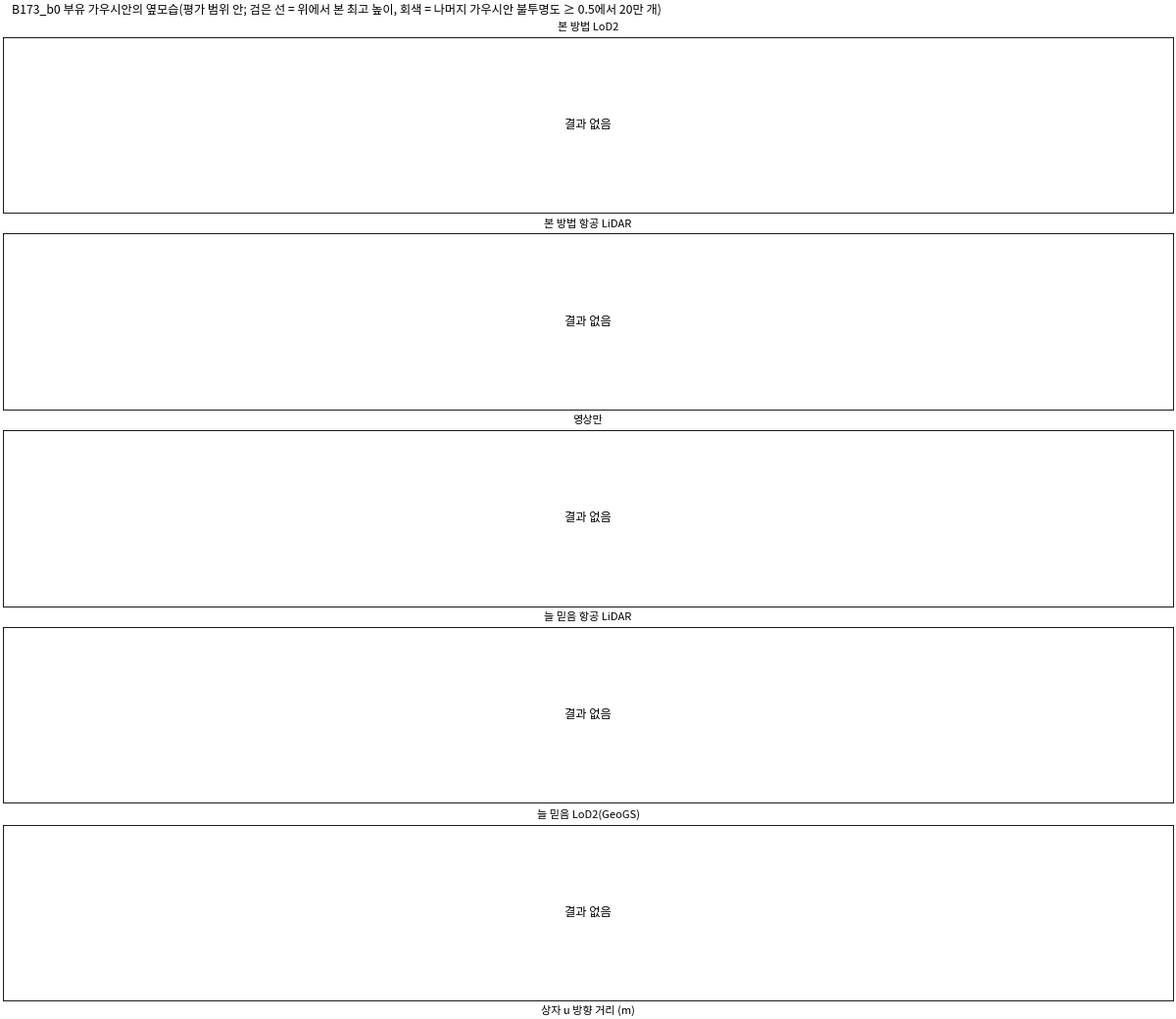
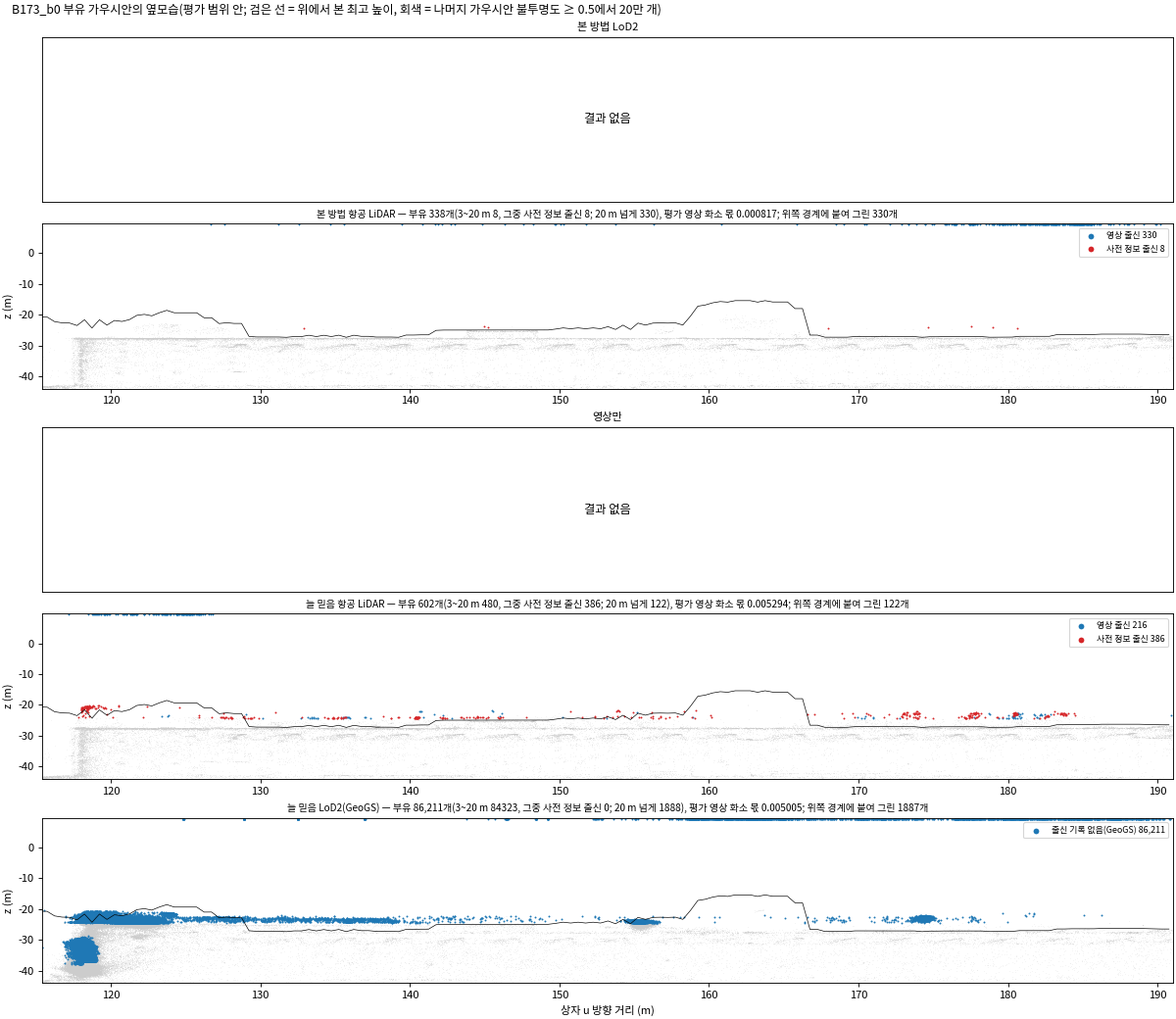
PHD-MAIN-STAGE1-v1 (지역: B173만): 학습 넷 PASS, 결과 없음 둘(GPU 메모리), 최종 관문표
- B173_b0(사용자 결정 10-08: 최대한 남김): 여섯 번 모두 영상을 CPU에(--data_device cpu, 계산 같음), 본 방법 LoD2는 GPU 1에서만,
  두 번째 메모리 부족은 '결과 없음'으로 적고 계속(run_stage1_v2.py --cpu-images/--gpu1/--keep-going)
- PASS: 본 방법 LoD2 씨앗 1, 항공 LiDAR 씨앗 0·1, 늘 믿음 항공 LiDAR / 결과 없음: 본 방법 LoD2 씨앗 0(네 번 실패, 필요 약 24.3~24.4 GB),
  영상만(두 번 실패)
- 최종 관문표 gate_final(조건 1·2·4 일곱 칸, 조건 3 세 칸): 통과, 미충족 없음
- 지역 합산 표 final_extra 다시 냄; 부유 그림이 GeoGS(덤프 없음)를 PLY에서 읽게; B0 전체 그림에 항공 LiDAR 1배

scientific_verdict: null

diff --git a/scripts/phd/main_stage1_v1/run_stage1_v2.py b/scripts/phd/main_stage1_v1/run_stage1_v2.py
@@ -13,8 +13,12 @@ then stopped its queue as designed):
     run that ends out of memory is trained once more here, any other failure stops
   - pending first: runs with a PASS receipt whose post / run / metrics outputs are missing
   - progress.md end line: '학습 대기열 v2 끝'
+  - options added 2026-10-08 for B173_b0 (decided by the user after its two out-of-memory stops; the training computation is unchanged):
+    --cpu-images <site>: the training images of that site stay in host memory ('--data_device cpu' appended to the command; ~1.3 GB of
+    GPU memory freed), --gpu1 <site>/<result>: those runs only on GPU 1 (no resident desktop process there), --keep-going <site>: a
+    second out-of-memory of that site is recorded as 'no result' and the queue goes on instead of stopping
 
-  python3 run_stage1_v2.py [--sites <site> ...] [--only <site>/<result> ...]
+  python3 run_stage1_v2.py [--sites <site> ...] [--only <site>/<result> ...] [--cpu-images <site> ...] [--gpu1 <site>/<result> ...] [--keep-going <site> ...]
 scientific_verdict: null."""
 import argparse
 import fcntl
@@ -33,6 +37,18 @@ OUT, HERE = rs.OUT, rs.HERE
 PENDING, ADOPT, POSTQ = [], [], []
 LK = threading.Lock()
 DONE = threading.Event()
+OPT = dict(cpu_images=set(), gpu1=set(), keep_going=set())
+NO_RESULT = []
+_command = rs.command
+
+
+def command_v2(run, gpu):
+    """rs.command with '--data_device cpu' for the sites of --cpu-images (rs.train looks rs.command up at call time)."""
+    name, cmd = _command(run, gpu)
+    return name, (cmd + ["--data_device", "cpu"] if run["site"] in OPT["cpu_images"] else cmd)
+
+
+rs.command = command_v2
 
 
 def units_of(run):
@@ -125,8 +141,13 @@ def post_worker():
             rs.write_progress(f"{site}/{res} 후처리·지표 끝")
 
 
-def next_job(queue):
-    """('post', run) for pending post steps (adopted runs whose receipt came), ('train', run), ('wait', None) or (None, None)."""
+def allowed(run, g):
+    return g == 1 or f"{run['site']}/{run['result']}" not in OPT["gpu1"]
+
+
+def next_job(queue, g=None):
+    """('post', run) for pending post steps (adopted runs whose receipt came), ('train', run), ('wait', None) or (None, None).
+    A training restricted to GPU 1 (--gpu1) is skipped by the GPU 0 worker; when only such trainings are left that worker ends."""
     with LK:
         for run in list(ADOPT):
             rec = receipt(run)
@@ -144,18 +165,19 @@ def next_job(queue):
                 return None, None
         if PENDING:
             return "post", PENDING.pop(0)
-        if queue:
-            return "train", queue.pop(0)
+        for i, run in enumerate(queue):
+            if g is None or allowed(run, g):
+                return "train", queue.pop(i)
         if ADOPT:
             return "wait", None
-    return None, None
+    return None, None          # nothing this GPU may take (only GPU-1 trainings left for the GPU 0 worker): the worker ends
 
 
 def gpu_worker(g, queue):
     while not rs.STOP.is_set():
         if not wait_idle(g, "다음 일 전"):          # a job is taken only by a worker whose GPU is idle (the first idle GPU gets it)
             return
-        kind, run = next_job(queue)
+        kind, run = next_job(queue, g)
         if kind is None:
             return
         if kind == "wait":
@@ -168,6 +190,10 @@ def gpu_worker(g, queue):
                 rs.write_progress(f"{run['site']}/{run['result']} GPU 메모리 부족 — 같은 학습을 한 번 더 돌림")
                 st = rs.train(run, g, 1)
             rs.RUNNING[g] = None
+            if st == "OOM" and run["site"] in OPT["keep_going"]:
+                NO_RESULT.append(f"{run['site']}/{run['result']}")
+                rs.write_progress(f"{run['site']}/{run['result']} 두 번째 GPU 메모리 부족 — 결과 없음으로 적고 다음 학습으로(사용자 결정 10-08)")
+                continue
             if st != "PASS":
                 rs.write_progress(f"{run['site']}/{run['result']} 실행 조건이 깨짐({st}) — 멈추고 여쭙는다")
                 stop(run=f"{run['site']}/{run['result']}", reason=st)
@@ -185,7 +211,11 @@ def main():
     ap = argparse.ArgumentParser()
     ap.add_argument("--sites", nargs="+", default=None)
     ap.add_argument("--only", nargs="+", default=None)
+    ap.add_argument("--cpu-images", nargs="+", default=[])
+    ap.add_argument("--gpu1", nargs="+", default=[])
+    ap.add_argument("--keep-going", nargs="+", default=[])
     a = ap.parse_args()
+    OPT.update(cpu_images=set(a.cpu_images), gpu1=set(a.gpu1), keep_going=set(a.keep_going))
     running = set(subprocess.run(["docker", "ps", "--format", "{{.Names}}"], capture_output=True, text=True).stdout.split())
     queue = []
     for r in rs.PLAN["runs"]:
@@ -215,7 +245,7 @@ def main():
         w.join()
     DONE.set()
     pw.join()
-    rs.write_progress("학습 대기열 v2 끝" + (" (멈춤: logs/STOP_v2.json)" if rs.STOP.is_set() else ""))
+    rs.write_progress("학습 대기열 v2 끝" + (" (멈춤: logs/STOP_v2.json)" if rs.STOP.is_set() else "") + (f" (결과 없음: {', '.join(NO_RESULT)})" if NO_RESULT else ""))
 
 
 if __name__ == "__main__":

diff --git a/scripts/phd/main_stage1_v1/figs_s1.py b/scripts/phd/main_stage1_v1/figs_s1.py
@@ -477,17 +477,26 @@ def floating_fig(site):
     for i, (res, lab) in enumerate(ms):
         ax = axs[i, 0]
         p = result_paths(site, res)
-        if not (p.get("floater_mask") and Path(p["floater_mask"]).exists() and p.get("dump") is not None and Path(p["dump"]).exists()):
+        has_dump = p.get("dump") is not None and Path(p["dump"]).exists()
+        has_ply = p.get("ply") is not None and Path(p["ply"]).exists()
+        if not (p.get("floater_mask") and Path(p["floater_mask"]).exists() and (has_dump or has_ply)):
             blank(ax)
             ax.set_title(lab, fontsize=10)
             continue
         fm = np.load(p["floater_mask"])
-        dm = np.load(p["dump"])
-        X = dm["xyz"].astype(np.float64)
-        og = dm["origin"] if "origin" in dm.files else np.zeros(len(X), np.int8)
+        if has_dump:
+            dm = np.load(p["dump"])
+            X, opac = dm["xyz"].astype(np.float64), dm["opacity"]
+            og = dm["origin"] if "origin" in dm.files else np.zeros(len(X), np.int8)
+        else:                       # GeoGS: positions and opacities from the PLY, origin not recorded (drawn as image-origin colour)
+            from plyfile import PlyData
+            v = PlyData.read(str(p["ply"]))["vertex"]
+            X = np.stack([v["x"], v["y"], v["z"]], 1).astype(np.float64)
+            opac = 1.0 / (1.0 + np.exp(-np.asarray(v["opacity"], np.float64)))
+            og = np.zeros(len(X), np.int8)
         uvx = xy_to_uv(X[:, :2])
         ine = in_eval(uvx, b)
-        bg = np.nonzero(ine & (dm["opacity"] >= 0.5) & ~fm)[0]
+        bg = np.nonzero(ine & (opac >= 0.5) & ~fm)[0]
         bg = rng.choice(bg, min(len(bg), 200_000), replace=False) if len(bg) else bg
         ax.scatter(uvx[bg, 0], X[bg, 2], s=0.1, c="0.8", linewidths=0, rasterized=True)
         ax.plot(ubu * 0.5 + 0.25, zmax, "k-", lw=0.6)
@@ -496,7 +505,10 @@ def floating_fig(site):
         for code in (0, 1):
             mk = fm & (og == code)
             above += int((mk & (X[:, 2] > ylim[1])).sum())
-            ax.scatter(uvx[mk, 0], np.minimum(X[mk, 2], ylim[1] - 0.3), s=3, c=[ORG_COL[code]], linewidths=0, label=f"{ORG_KO[code]} {int(mk.sum()):,}")
+            if not has_dump and code == 1:
+                continue
+            ax.scatter(uvx[mk, 0], np.minimum(X[mk, 2], ylim[1] - 0.3), s=3, c=[ORG_COL[code]], linewidths=0,
+                       label=f"{ORG_KO[code] if has_dump else '출신 기록 없음(GeoGS)'} {int(mk.sum()):,}")
         fl = metric_json(site, res).get("floating", {})
         ax.set_title(f"{lab} — 부유 {int(fm.sum()):,}개(3~20 m {fl.get('near_3_20m', '—')}, 그중 사전 정보 출신 {fl.get('near_prior', '—')}; 20 m 넘게 "
                      f"{fl.get('above_20m', '—')}), 평가 영상 화소 몫 {fl.get('pixel_share_all', '—')}" + (f"; 위쪽 경계에 붙여 그린 {above}개" if above else ""), fontsize=9)

diff --git a/docs/experiments/phd/main_stage1_v1/tables/results_B173_b0.md b/docs/experiments/phd/main_stage1_v1/tables/results_B173_b0.md
@@ -1,58 +1,71 @@
 
 **B173_b0 · LoD2** (참고: 지면 MVS − 참값 +8.4 cm, 같은 건물들의 완만한 지붕 MVS − 참값 -0.8 cm)
 
-| 묶음 | 지표 | 늘 믿음(GeoGS) | 그대로(같은 길) | 그대로(표면) |
-|---|---|---|---|---|
-| 오류 차단 | 유입률 · 사전 정보 오류 [조건 1] | 19.5 | 99.7 | 100.0 |
-| 오류 차단 | 판별 불가 · 사전 정보 오류 | 2.1 | 2.1 | 2.1 |
-| 오류 차단 | 유입률 · 관측 오류 문턱 이내 [조건 2] | 35.3 | 45.6 | 45.3 |
-| 오류 차단 | 판별 불가 · 관측 오류 문턱 이내 | 32.9 | 32.9 | 32.9 |
-| 오류 차단 | 유입률 · 관측 오류 문턱 이내, 의심 뺌 | 34.8 | 47.5 | 47.3 |
-| 오류 차단 | 유입률 · 관측 오류 전체 | 17.5 | 6.7 | 4.6 |
-| 오류 차단 | 유입률 · 전제 위배 안 | 16.1 | 3.7 | 1.5 |
-| 오류 차단 | 유입률 · 이중 오류(기록) | 29.0 | 98.9 | 99.6 |
-| 오류 차단 | 유입률 · 결측 사전 정보 오류(기록) | 44.8 | 94.3 | 98.6 |
-| 기하 | 완만한 지붕 편향 / NMAD [조건 3 = NMAD] | +6.7 / 9.9 | +10.3 / 1.6 | +10.3 / 1.7 |
-| 기하 | 완만한 지붕 편향, 의심 뺌 | +6.0 | +10.2 | +10.2 |
-| 기하 | 완만한 지붕 산포 q68.3 / q95 | 13.4 / 662.0 | 1.6 / 3.1 | 1.6 / 3.1 |
-| 기하 | 가파른 지붕 편향 / NMAD | +3.8 / 11.6 | -7.3 / 7.4 | -7.3 / 7.4 |
-| 기하 | 가파른 지붕 산포 q68.3 / q95 | 12.8 / 40.9 | 7.3 / 15.3 | 7.3 / 15.4 |
-| 기하 | 띠 편향 / NMAD | +9.6 / 14.5 | +1.5 / 11.4 | +1.5 / 11.3 |
-| 기하 | 벽 편향 / NMAD | +6.3 / 10.0 | -2.2 / 2.4 | -2.1 / 2.1 |
-| 완전성 | 결측 일치 0.2 / 0.5 m | 88.4 / 96.1 | 97.9 / 99.9 | 97.6 / 99.9 |
-| 완전성 | 비가시 일치 0.2 / 0.5 m | 47.1 / 100.0 | 100.0 / 100.0 | 100.0 / 100.0 |
-| 완전성 | 전제 위배 둘레 0.2 m [조건 4] | 84.4 | 98.4 | 98.2 |
-| 완전성 | 가상 시점 메시: 맞음 미룸 0.5 m / 틀림 미룸 0.2 m | 36.9 / 23.2 | — | — |
-| 부유 | 3~20 m / 그중 사전 정보 출신 / 20 m 넘게 (개) | 84,323 / 0 / 1,888 | — | — |
-| 부유 | 평가 영상 화소 몫 (‰) | 5.00 | — | — |
-| 요약 | Chamfer 평균 (m) | 0.926 | 1.420 | 1.512 |
-| 요약 | 정밀도 / 완전성 / F1 @0.2 m | 27.2 / 34.0 / 30.2 | 37.3 / 27.3 / 31.5 | 31.8 / 27.7 / 29.6 |
-| 요약 | M3C2 중앙값 / NMAD (cm) | +11.5 / 33.0 | -1.2 / 19.0 | -1.1 / 19.4 |
-| 요약 | 학습 시간 (분) / GPU 최대 (GB) | 139 / 16.4 | — | — |
-| 요약 | 화질 PSNR / SSIM / LPIPS | 22.19 / 0.695 / 0.368 | — | — |
+| 묶음 | 지표 | 본 방법 1 | 늘 믿음(GeoGS) | 그대로(같은 길) | 그대로(표면) |
+|---|---|---|---|---|---|
+| 오류 차단 | 유입률 · 사전 정보 오류 [조건 1] | 5.1 | 19.5 | 99.7 | 100.0 |
+| 오류 차단 | 판별 불가 · 사전 정보 오류 | 2.1 | 2.1 | 2.1 | 2.1 |
+| 오류 차단 | 유입률 · 관측 오류 문턱 이내 [조건 2] | 68.0 | 35.3 | 45.6 | 45.3 |
+| 오류 차단 | 판별 불가 · 관측 오류 문턱 이내 | 32.9 | 32.9 | 32.9 | 32.9 |
+| 오류 차단 | 유입률 · 관측 오류 문턱 이내, 의심 뺌 | 68.5 | 34.8 | 47.5 | 47.3 |
+| 오류 차단 | 유입률 · 관측 오류 전체 | 46.4 | 17.5 | 6.7 | 4.6 |
+| 오류 차단 | 유입률 · 전제 위배 안 | 44.7 | 16.1 | 3.7 | 1.5 |
+| 오류 차단 | 유입률 · 이중 오류(기록) | 33.0 | 29.0 | 98.9 | 99.6 |
+| 오류 차단 | 유입률 · 결측 사전 정보 오류(기록) | 10.5 | 44.8 | 94.3 | 98.6 |
+| 오류 차단 | 과거 형상 · 사전 정보 오류 | 1.0 | — | — | — |
+| 오류 차단 | 과거 형상 · 관측 오류(출신 무관) | 10.8 | — | — | — |
+| 오류 차단 | 보정 경계 (τ / m) | 1 / 0.18 | — | — | — |
+| 기하 | 완만한 지붕 편향 / NMAD [조건 3 = NMAD] | +2.7 / 5.8 | +6.7 / 9.9 | +10.3 / 1.6 | +10.3 / 1.7 |
+| 기하 | 완만한 지붕 편향, 의심 뺌 | +2.3 | +6.0 | +10.2 | +10.2 |
+| 기하 | 완만한 지붕 산포 q68.3 / q95 | 5.3 / 217.2 | 13.4 / 662.0 | 1.6 / 3.1 | 1.6 / 3.1 |
+| 기하 | 가파른 지붕 편향 / NMAD | -8.5 / 6.5 | +3.8 / 11.6 | -7.3 / 7.4 | -7.3 / 7.4 |
+| 기하 | 가파른 지붕 산포 q68.3 / q95 | 6.6 / 13.2 | 12.8 / 40.9 | 7.3 / 15.3 | 7.3 / 15.4 |
+| 기하 | 띠 편향 / NMAD | +0.2 / 6.6 | +9.6 / 14.5 | +1.5 / 11.4 | +1.5 / 11.3 |
+| 기하 | 벽 편향 / NMAD | -4.4 / 4.4 | +6.3 / 10.0 | -2.2 / 2.4 | -2.1 / 2.1 |
+| 완전성 | 결측 일치 0.2 / 0.5 m | 93.2 / 95.1 | 88.4 / 96.1 | 97.9 / 99.9 | 97.6 / 99.9 |
+| 완전성 | 비가시 일치 0.2 / 0.5 m | 76.5 / 100.0 | 47.1 / 100.0 | 100.0 / 100.0 | 100.0 / 100.0 |
+| 완전성 | 전제 위배 둘레 0.2 m [조건 4] | 95.0 | 84.4 | 98.4 | 98.2 |
+| 완전성 | 못 본 곳 상속률 / 과거 형상 (가우시안) | 84.5 / 5.0 | — | — | — |
+| 완전성 | 가상 시점 메시: 맞음 미룸 0.5 m / 틀림 미룸 0.2 m | 98.6 / 13.0 | 36.9 / 23.2 | — | — |
+| 부유 | 3~20 m / 그중 사전 정보 출신 / 20 m 넘게 (개) | 53 / 53 / 1,356 | 84,323 / 0 / 1,888 | — | — |
+| 부유 | 평가 영상 화소 몫 (‰) | 1.09 | 5.00 | — | — |
+| 요약 | Chamfer 평균 (m) | 0.199 | 0.926 | 1.420 | 1.512 |
+| 요약 | 정밀도 / 완전성 / F1 @0.2 m | 68.4 / 84.2 / 75.4 | 27.2 / 34.0 / 30.2 | 37.3 / 27.3 / 31.5 | 31.8 / 27.7 / 29.6 |
+| 요약 | M3C2 중앙값 / NMAD (cm) | -2.1 / 13.9 | +11.5 / 33.0 | -1.2 / 19.0 | -1.1 / 19.4 |
+| 요약 | 학습 시간 (분) / GPU 최대 (GB) | 65 / 13.2 | 139 / 16.4 | — | — |
+| 요약 | 화질 PSNR / SSIM / LPIPS | 22.87 / 0.747 / 0.305 | 22.19 / 0.695 / 0.368 | — | — |
 
 **B173_b0 · ALS** (참고: 지면 MVS − 참값 +8.4 cm, 같은 건물들의 완만한 지붕 MVS − 참값 -4.8 cm)
 
-| 묶음 | 지표 | 그대로(같은 길) | 그대로(표면) |
-|---|---|---|---|
-| 오류 차단 | 유입률 · 사전 정보 오류 [조건 1] | 100.0 | 100.0 |
-| 오류 차단 | 판별 불가 · 사전 정보 오류 | 0.1 | 0.1 |
-| 오류 차단 | 유입률 · 관측 오류 문턱 이내 [조건 2] | 4.7 | 4.1 |
-| 오류 차단 | 판별 불가 · 관측 오류 문턱 이내 | 54.3 | 54.3 |
-| 오류 차단 | 유입률 · 관측 오류 문턱 이내, 의심 뺌 | 5.0 | 4.3 |
-| 오류 차단 | 유입률 · 관측 오류 전체 | 1.7 | 1.3 |
-| 오류 차단 | 유입률 · 전제 위배 안 | 0.4 | 0.2 |
-| 오류 차단 | 유입률 · 이중 오류(기록) | 100.0 | 100.0 |
-| 오류 차단 | 유입률 · 결측 사전 정보 오류(기록) | 100.0 | 100.0 |
-| 기하 | 완만한 지붕 편향 / NMAD [조건 3 = NMAD] | -0.3 / 2.0 | -0.3 / 2.0 |
-| 기하 | 완만한 지붕 편향, 의심 뺌 | -0.4 | -0.4 |
-| 기하 | 완만한 지붕 산포 q68.3 / q95 | 2.1 / 4.5 | 2.0 / 4.3 |
-| 기하 | 가파른 지붕 편향 / NMAD | -1.1 / 2.2 | -1.1 / 2.1 |
-| 기하 | 가파른 지붕 산포 q68.3 / q95 | 2.2 / 6.2 | 2.1 / 5.6 |
-| 기하 | 띠 편향 / NMAD | -1.0 / 2.5 | -0.6 / 2.1 |
-| 완전성 | 결측 일치 0.2 / 0.5 m | 100.0 / 100.0 | 100.0 / 100.0 |
-| 완전성 | 비가시 일치 0.2 / 0.5 m | 100.0 / 100.0 | 100.0 / 100.0 |
-| 완전성 | 전제 위배 둘레 0.2 m [조건 4] | 99.8 | 99.9 |
-| 요약 | Chamfer 평균 (m) | 1.897 | 1.875 |
-| 요약 | 정밀도 / 완전성 / F1 @0.2 m | 17.9 / 23.1 / 20.1 | 12.2 / 25.7 / 16.5 |
-| 요약 | M3C2 중앙값 / NMAD (cm) | +5.1 / 33.6 | +10.7 / 36.3 |
+| 묶음 | 지표 | 본 방법 0 | 본 방법 1 | 늘 믿음 | 그대로(같은 길) | 그대로(표면) |
+|---|---|---|---|---|---|---|
+| 오류 차단 | 유입률 · 사전 정보 오류 [조건 1] | 0.0 | 0.1 | 23.2 | 100.0 | 100.0 |
+| 오류 차단 | 판별 불가 · 사전 정보 오류 | 0.1 | 0.1 | 0.1 | 0.1 | 0.1 |
+| 오류 차단 | 유입률 · 관측 오류 문턱 이내 [조건 2] | 87.5 | 87.5 | 48.8 | 4.7 | 4.1 |
+| 오류 차단 | 판별 불가 · 관측 오류 문턱 이내 | 54.3 | 54.3 | 54.3 | 54.3 | 54.3 |
+| 오류 차단 | 유입률 · 관측 오류 문턱 이내, 의심 뺌 | 88.0 | 87.8 | 48.0 | 5.0 | 4.3 |
+| 오류 차단 | 유입률 · 관측 오류 전체 | 85.1 | 85.2 | 36.8 | 1.7 | 1.3 |
+| 오류 차단 | 유입률 · 전제 위배 안 | 84.2 | 84.2 | 32.0 | 0.4 | 0.2 |
+| 오류 차단 | 유입률 · 이중 오류(기록) | 0.7 | 0.7 | 15.8 | 100.0 | 100.0 |
+| 오류 차단 | 유입률 · 결측 사전 정보 오류(기록) | 0.0 | 0.0 | 50.0 | 100.0 | 100.0 |
+| 오류 차단 | 과거 형상 · 사전 정보 오류 | 0.1 | 0.2 | 1.4 | — | — |
+| 오류 차단 | 과거 형상 · 관측 오류(출신 무관) | 27.9 | 30.7 | 17.7 | — | — |
+| 오류 차단 | 보정 경계 (τ / m) | 1 / 0.15 | 1 / 0.15 | — | — | — |
+| 기하 | 완만한 지붕 편향 / NMAD [조건 3 = NMAD] | -4.6 / 10.3 | -4.4 / 10.0 | +0.2 / 5.3 | -0.3 / 2.0 | -0.3 / 2.0 |
+| 기하 | 완만한 지붕 편향, 의심 뺌 | -5.2 | -4.9 | +0.1 | -0.4 | -0.4 |
+| 기하 | 완만한 지붕 산포 q68.3 / q95 | 9.6 / 225.7 | 9.2 / 175.9 | 5.5 / 525.9 | 2.1 / 4.5 | 2.0 / 4.3 |
+| 기하 | 가파른 지붕 편향 / NMAD | -9.8 / 6.3 | -9.5 / 6.5 | -2.9 / 5.4 | -1.1 / 2.2 | -1.1 / 2.1 |
+| 기하 | 가파른 지붕 산포 q68.3 / q95 | 7.0 / 17.3 | 7.1 / 18.0 | 5.3 / 12.6 | 2.2 / 6.2 | 2.1 / 5.6 |
+| 기하 | 띠 편향 / NMAD | -0.1 / 5.0 | -0.2 / 5.5 | +0.9 / 3.9 | -1.0 / 2.5 | -0.6 / 2.1 |
+| 완전성 | 결측 일치 0.2 / 0.5 m | 0.0 / 0.0 | 0.0 / 0.0 | 0.0 / 85.7 | 100.0 / 100.0 | 100.0 / 100.0 |
+| 완전성 | 비가시 일치 0.2 / 0.5 m | 100.0 / 100.0 | 100.0 / 100.0 | 100.0 / 100.0 | 100.0 / 100.0 | 100.0 / 100.0 |
+| 완전성 | 전제 위배 둘레 0.2 m [조건 4] | 98.2 | 98.5 | 99.4 | 99.8 | 99.9 |
+| 완전성 | 못 본 곳 상속률 / 과거 형상 (가우시안) | 5.6 / 0.2 | 5.4 / 0.2 | 4.1 / 1.3 | — | — |
+| 완전성 | 가상 시점 메시: 맞음 미룸 0.5 m / 틀림 미룸 0.2 m | 85.4 / 10.4 | 81.1 / 4.4 | 81.9 / 6.9 | — | — |
+| 부유 | 3~20 m / 그중 사전 정보 출신 / 20 m 넘게 (개) | 8 / 8 / 330 | 9 / 9 / 117 | 480 / 386 / 122 | — | — |
+| 부유 | 평가 영상 화소 몫 (‰) | 0.82 | 0.09 | 5.29 | — | — |
+| 요약 | Chamfer 평균 (m) | 0.203 | 0.202 | 1.330 | 1.897 | 1.875 |
+| 요약 | 정밀도 / 완전성 / F1 @0.2 m | 67.8 / 85.1 / 75.4 | 68.2 / 85.2 / 75.8 | 21.0 / 30.1 / 24.7 | 17.9 / 23.1 / 20.1 | 12.2 / 25.7 / 16.5 |
+| 요약 | M3C2 중앙값 / NMAD (cm) | -1.3 / 14.4 | -1.7 / 13.8 | +16.3 / 29.6 | +5.1 / 33.6 | +10.7 / 36.3 |
+| 요약 | 학습 시간 (분) / GPU 최대 (GB) | 82 / 15.9 | 63 / 11.4 | 70 / 16.5 | — | — |
+| 요약 | 화질 PSNR / SSIM / LPIPS | 22.60 / 0.733 / 0.320 | 23.17 / 0.750 / 0.300 | 22.80 / 0.736 / 0.318 | — | — |

diff --git a/docs/experiments/phd/main_stage1_v1/tables/final_extra.md b/docs/experiments/phd/main_stage1_v1/tables/final_extra.md
@@ -14,13 +14,13 @@
 
 | 방법 | 결측 일치 | 비가시 일치 | 지역 |
 |---|---|---|---|
-| 본 방법 0 | 42.9 / 52.8 (671) | 25.0 / 25.0 (8) | 3 |
-| 본 방법 1 | 40.2 / 49.0 (671) | 25.0 / 25.0 (8) | 3 |
+| 본 방법 0 | 41.6 / 51.2 (692) | 40.0 / 40.0 (10) | 4 |
+| 본 방법 1 | 39.0 / 47.5 (692) | 40.0 / 40.0 (10) | 4 |
 | 1배 0 | 46.2 / 58.2 (560) | 0.0 / 0.0 (6) | 2 |
 | 영상만 0 | 38.8 / 45.0 (671) | 25.0 / 25.0 (8) | 3 |
 | 영상만 1 | 0.0 / 0.0 (111) | 100.0 / 100.0 (2) | 1 |
-| 늘 믿음 | 88.7 / 96.0 (671) | 25.0 / 25.0 (8) | 3 |
-| 그대로(같은 길) | 99.9 / 100.0 (671) | 100.0 / 100.0 (8) | 3 |
+| 늘 믿음 | 86.0 / 95.7 (692) | 40.0 / 40.0 (10) | 4 |
+| 그대로(같은 길) | 99.9 / 100.0 (692) | 100.0 / 100.0 (10) | 4 |
 
 **보정률 곡선과 보정 경계, 지역을 합침 — LoD2** (묶인 구간의 참값 쪽 %, 점 수; 경계 = 그 구간부터 모두 50 % 이상인 첫 아래 끝)
 
@@ -37,13 +37,13 @@
 
 | 방법 | 묶인 구간: 보정률 (점) | 합친 경계 (τ) | 지역별 경계 (τ) |
 |---|---|---|---|
-| 본 방법 0 | 1~τ: 99 (96,934) | 1.0 | B0 1.0, B173nb 1.0, R1rep — |
-| 본 방법 1 | 1~τ: 99 (96,934) | 1.0 | B0 1.0, B173nb 1.0, R1rep 1.0 |
+| 본 방법 0 | 1~τ: 100 (192,476) | 1.0 | B0 1.0, B173nb 1.0, B173 1.0, R1rep — |
+| 본 방법 1 | 1~τ: 100 (192,476) | 1.0 | B0 1.0, B173nb 1.0, B173 1.0, R1rep 1.0 |
 | 1배 0 | 1~τ: 51 (817) | 1.0 | B0 1.0, R1rep — |
 | 영상만 0 | 1~τ: 99 (96,934) | 1.0 | B0 1.0, B173nb 1.0, R1rep 1.0 |
 | 영상만 1 | 1~τ: 100 (96,117) | 1.0 | B173nb 1.0 |
-| 늘 믿음 | 1~τ: 6 (96,934) | — | B0 —, B173nb —, R1rep — |
-| 그대로(같은 길) | 1~τ: 0 (96,934) | — | B0 —, B173nb —, R1rep — |
+| 늘 믿음 | 1~τ: 6 (192,476) | — | B0 —, B173nb —, B173 —, R1rep — |
+| 그대로(같은 길) | 1~τ: 0 (192,476) | — | B0 —, B173nb —, B173 —, R1rep — |
 
 **못 본 곳 상속률, 지역을 합침** (B173 지역; 맞음으로 미룬 패치의 상속률 / 틀림으로 미룬 패치의 과거 형상)
 
@@ -53,11 +53,11 @@
 | LoD2/prop_LoD2_s1 | 77.6 | 8.6 | 15,366 / 2,991 | B173nb_b10 |
 | LoD2/imgonly_s0 | 0.0 | 0.0 | 15,366 / 2,991 | B173nb_b10 |
 | LoD2/imgonly_s1 | 0.0 | 0.0 | 15,366 / 2,991 | B173nb_b10 |
-| ALS/prop_ALS_s0 | 5.0 | 0.2 | 15,366 / 2,991 | B173nb_b10 |
-| ALS/prop_ALS_s1 | 5.4 | 0.2 | 15,366 / 2,991 | B173nb_b10 |
+| ALS/prop_ALS_s0 | 5.3 | 0.2 | 30,735 / 5,975 | B173nb_b10, B173_b0 |
+| ALS/prop_ALS_s1 | 5.4 | 0.2 | 30,735 / 5,975 | B173nb_b10, B173_b0 |
 | ALS/imgonly_s0 | 0.0 | 0.0 | 15,366 / 2,991 | B173nb_b10 |
 | ALS/imgonly_s1 | 0.0 | 0.0 | 15,366 / 2,991 | B173nb_b10 |
-| ALS/trust_ALS | 4.2 | 2.1 | 15,366 / 2,991 | B173nb_b10 |
+| ALS/trust_ALS | 4.2 | 1.7 | 30,735 / 5,975 | B173nb_b10, B173_b0 |
 
 **항공 LiDAR 1배(1τ)와 2배(2τ) 버리는 규칙** (R1 부채꼴, B0)
 
@@ -87,7 +87,12 @@
 | B0_b10/prop_LoD2_s1 | PASS | 69.1 | 16.1 | 253 | 38.23 |
 | B0_b10/trust_ALS | PASS | 65.6 | 15.2 | 251 | 38.75 |
 | B0_b10/trust_LoD2 | PASS | 53.1 | 10.4 | — | 44.85 |
-| B173_b0/prop_LoD2_s0 | OOM | 25.0 | 23.0 | — | — |
+| B173_b0/imgonly_s0 | OOM | 16.5 | 23.2 | — | — |
+| B173_b0/prop_ALS_s0 | PASS | 82.1 | 15.9 | 393 | 15.35 |
+| B173_b0/prop_ALS_s1 | PASS | 62.6 | 11.4 | 299 | 15.82 |
+| B173_b0/prop_LoD2_s0 | OOM | 17.5 | 23.2 | — | — |
+| B173_b0/prop_LoD2_s1 | PASS | 64.6 | 13.2 | 321 | 15.97 |
+| B173_b0/trust_ALS | PASS | 70.1 | 16.5 | 327 | 17.76 |
 | B173_b0/trust_LoD2 | PASS | 138.7 | 16.4 | — | 22.95 |
 | B173nb_b10/imgonly_s0 | PASS | 70.6 | 19.9 | 313 | 33.74 |
 | B173nb_b10/imgonly_s1 | PASS | 60.6 | 16.1 | 255 | 34.88 |

diff --git a/docs/experiments/phd/main_stage1_v1/tables/gate_final.md b/docs/experiments/phd/main_stage1_v1/tables/gate_final.md
@@ -1,0 +1,25 @@
+| 조건 | 단위 | 본 방법(씨앗 0·1 평균) | 견줌 | 차이(견줌 − 본 방법) | r = 2.8 s_r | 표본 | 판정 |
+|---|---|---|---|---|---|---|---|
+| 1 | B0_b10 · LoD2 | 12.0 % | 43.6 % (trust_LoD2) | +31.58 | 8.22 | 32,880 | met |
+| 1 | B0_b10 · ALS | 42.8 % | 54.2 % (trust_ALS) | +11.45 | 8.22 | 262 | undecidable (samples < 10,000) |
+| 1 | B173nb_b10 · LoD2 | 6.8 % | 10.2 % (trust_LoD2) | +3.36 | 8.22 | 119,763 | undecidable |
+| 1 | B173nb_b10 · ALS | 0.0 % | 17.9 % (trust_ALS) | +17.91 | 8.22 | 96,117 | met |
+| 1 | R1rep_b10 · LoD2 | 7.6 % | 37.0 % (trust_LoD2) | +29.33 | 8.22 | 54,345 | met |
+| 1 | R1rep_b10 · ALS | 24.9 % | 47.6 % (trust_ALS) | +22.71 | 8.22 | 555 | undecidable (samples < 10,000) |
+| 2 | B0_b10 · LoD2 | 15.5 % | 15.6 % (imgonly_s0) | +0.13 | 2.20 | 384 | undecidable (samples < 10,000) |
+| 2 | B0_b10 · ALS | 49.5 % | 51.5 % (imgonly_s0) | +2.04 | 2.20 | 489 | undecidable (samples < 10,000) |
+| 2 | B173nb_b10 · LoD2 | 65.9 % | 57.2 % (imgonly_s0) | -8.66 | 2.20 | 1,594 | undecidable (samples < 10,000) |
+| 2 | B173nb_b10 · ALS | 89.0 % | 86.3 % (imgonly_s0) | -2.69 | 2.20 | 3,388 | undecidable (samples < 10,000) |
+| 2 | R1rep_b10 · LoD2 | 10.7 % | 12.2 % (imgonly_s0) | +1.55 | 2.20 | 615 | undecidable (samples < 10,000) |
+| 2 | R1rep_b10 · ALS | 41.5 % | 42.5 % (imgonly_s0) | +1.03 | 2.20 | 1,506 | undecidable (samples < 10,000) |
+| 3 | B0_b10 · LoD2 | 126.74 cm | 1.45 cm (samepath_LoD2) | -125.29 | 5.20 | 514 | undecidable (samples < 10,000) |
+| 3 | B173nb_b10 · LoD2 | 2.21 cm | 2.94 cm (samepath_LoD2) | +0.73 | 5.20 | 32,634 | undecidable |
+| 3 | R1rep_b10 · LoD2 | 6.04 cm | 17.85 cm (samepath_LoD2) | +11.81 | 5.20 | 76,434 | met |
+| 4 | B0_b10 · LoD2 | 95.4 % | 94.5 % (imgonly_s0) | -0.93 | 0.94 | 78,950 | met |
+| 4 | B0_b10 · ALS | 99.8 % | 99.1 % (imgonly_s0) | -0.72 | 0.94 | 34,677 | met |
+| 4 | B173nb_b10 · LoD2 | 95.6 % | 94.2 % (imgonly_s0) | -1.45 | 0.94 | 73,287 | met |
+| 4 | B173nb_b10 · ALS | 98.9 % | 97.2 % (imgonly_s0) | -1.71 | 0.94 | 14,136 | met |
+| 4 | R1rep_b10 · LoD2 | 89.1 % | 88.3 % (imgonly_s0) | -0.77 | 0.94 | 34,789 | met |
+| 4 | R1rep_b10 · ALS | 97.3 % | 94.1 % (imgonly_s0) | -3.17 | 0.94 | 43,186 | met |
+
+**통과 규칙**: 통과 — 조건 1: 충족 3, 미충족 0, 판별 불가 1, 판단 못 함 2; 조건 2: 충족 0, 미충족 0, 판별 불가 0, 판단 못 함 6 (가를 수 없음); 조건 3: 충족 1, 미충족 0, 판별 불가 1, 판단 못 함 1; 조건 4: 충족 6, 미충족 0, 판별 불가 0, 판단 못 함 0
